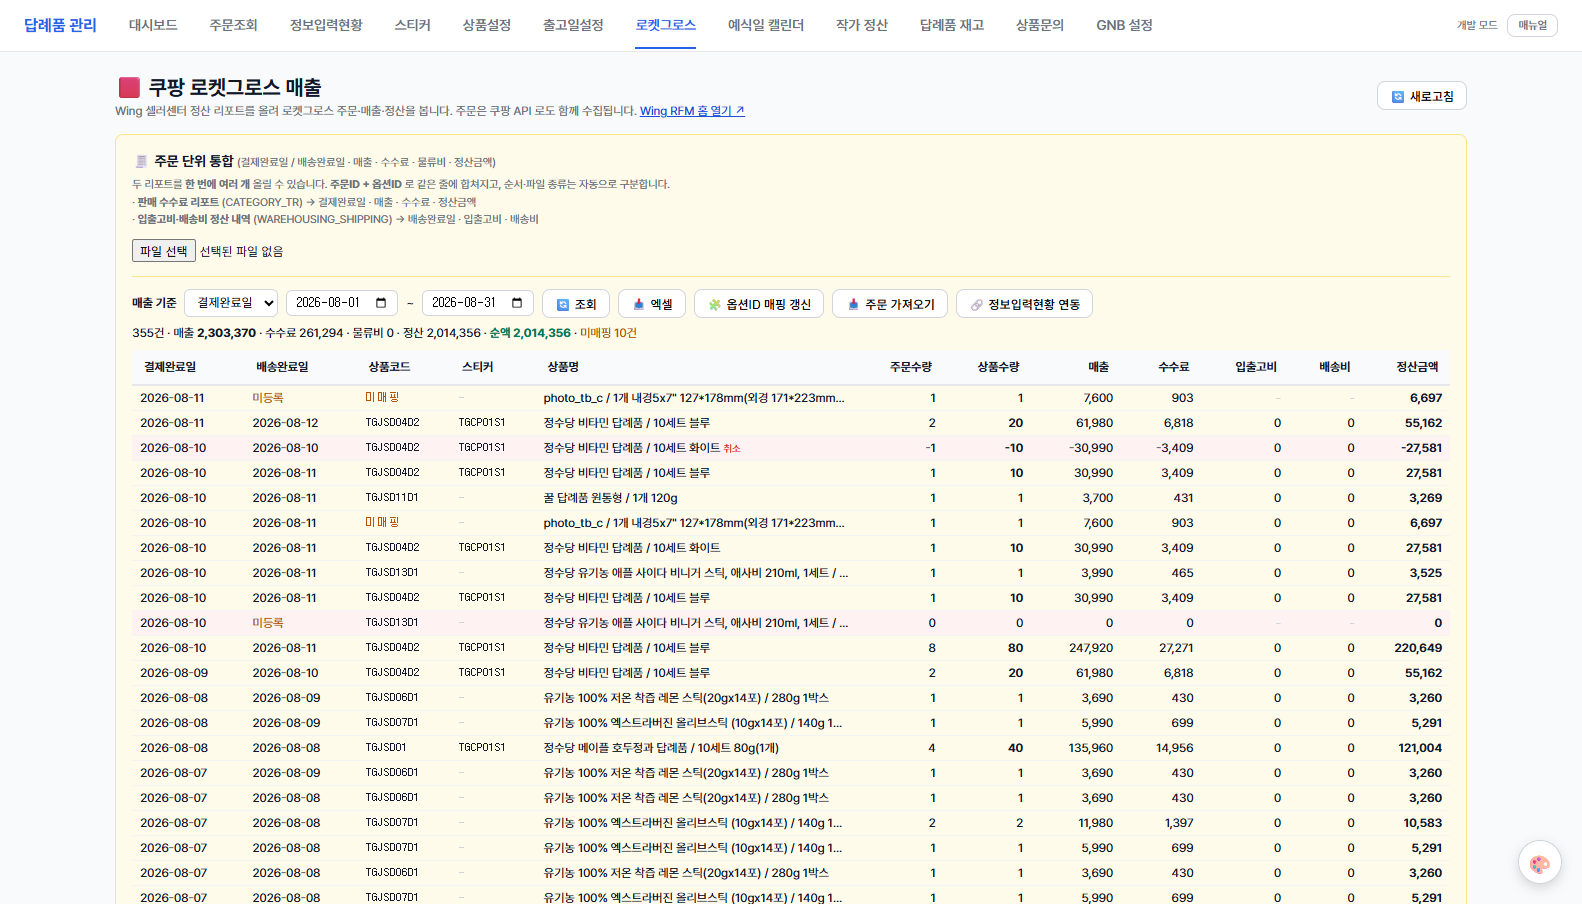
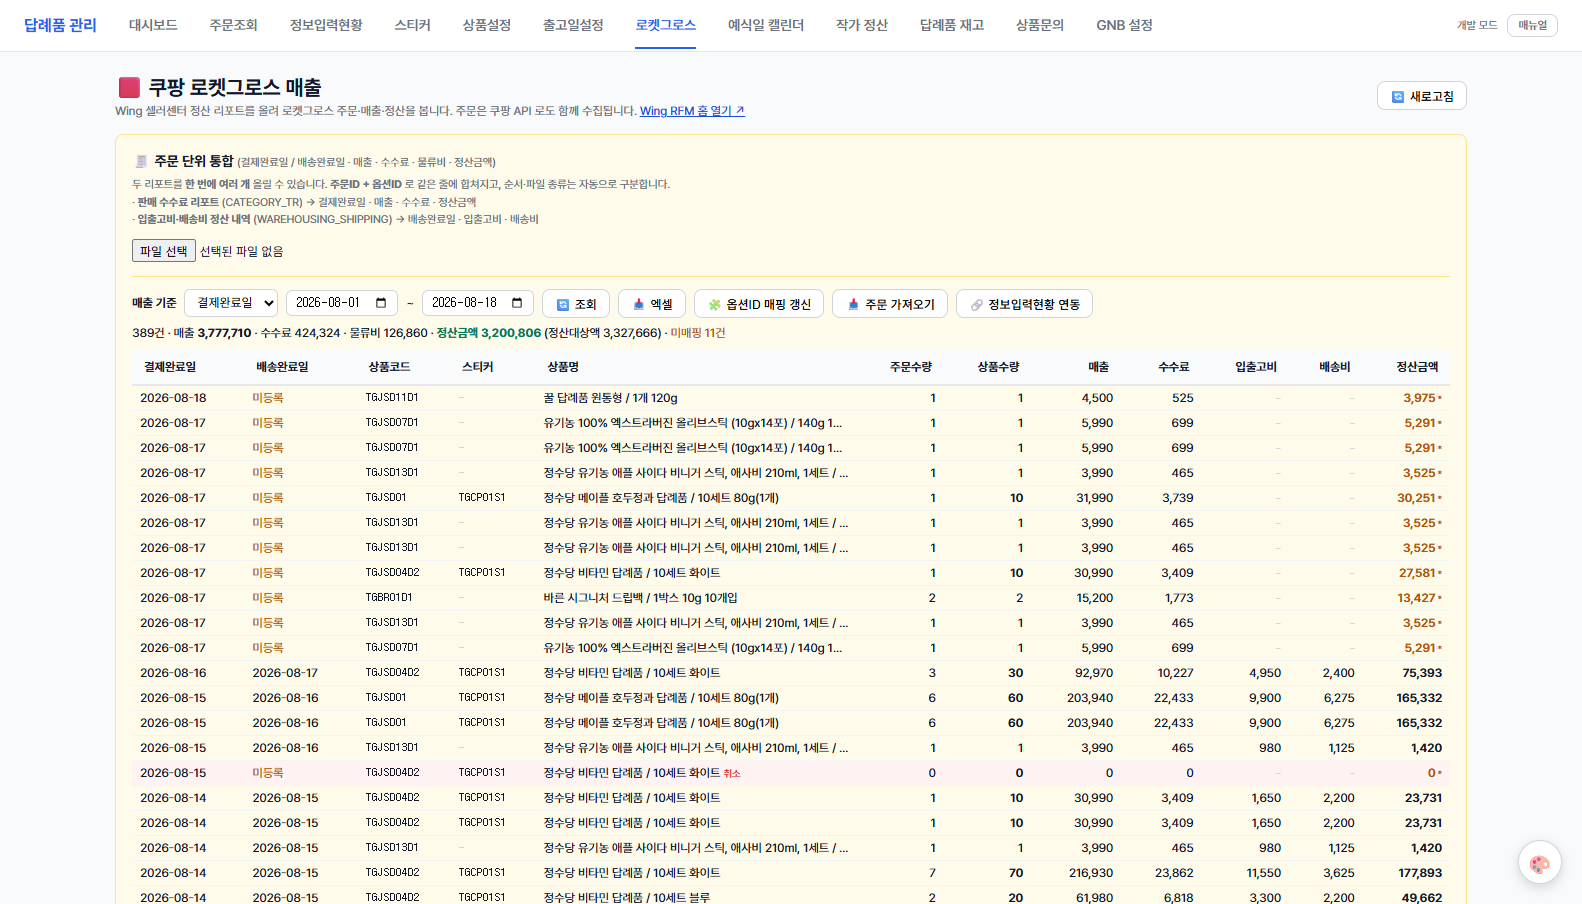
fix: 로켓그로스 정산금액에 입출고비·배송비 차감
정산금액 컬럼이 쿠팡 리포트의 '정산대상액'(매출−수수료까지만 반영)을 그대로
쓰고 있어, 바로 옆 입출고비·배송비 컬럼이 계산에서 빠져 있었다. 한 줄 안에서
산수가 맞지 않는 상태였다.

· 정산금액 = 매출 − 수수료 − 입출고비 − 배송비 로 변경 (행·요약·엑셀 일관)
· 원본 정산대상액은 버리지 않는다 — 요약줄 괄호와 셀 툴팁, 엑셀 별도 컬럼으로
  남겨 리포트와 대조할 수 있게 했다
· 물류비 리포트(파일2) 미등록 행은 뺄 값이 없어 정산대상액 그대로다. 확정값처럼
  보이지 않게 주황색 + '*' 로 구분하고 툴팁으로 사유를 적었다 (실측 29건)

검증: 2026-08-01~18 실데이터 389건에서 행 합계 3,200,806 = 요약 정산금액 일치,
샘플행 82,743 − 4,950 − 2,400 = 75,393 확인.

diff --git a/pricing-prototype/daeryepum/index.html b/pricing-prototype/daeryepum/index.html
@@ -18114,7 +18114,9 @@ function renderRgLines() {
     inout: a.inout + n(r.inout_fee), ship: a.ship + n(r.shipping_fee),
     settle: a.settle + n(r.settlement_amount),
   }), { sales: 0, fee: 0, inout: 0, ship: 0, settle: 0 });
-  // 순액 = 정산금액 − 물류비. 재무가 실제로 남는 돈을 보는 값.
+  // 정산금액 = 매출 − 수수료 − 입출고비 − 배송비.
+  //   쿠팡 리포트의 '정산대상액'(settlement_amount)은 매출−수수료까지만 반영된 값이라
+  //   그대로 쓰면 옆 컬럼의 물류비가 계산에서 빠진다 (2026-08-18 운영 지적).
   const net = t.settle - t.inout - t.ship;
   // 상품설정에 채널 코드가 안 들어간 건 — 이게 남아 있으면 상품코드·스티커가 빈다
   const unmapped = _rgLines.filter(r => !r.internal_product_code).length;
@@ -18124,18 +18126,34 @@ function renderRgLines() {
   if ($sum) {
     $sum.innerHTML = `${fmtNum(_rgLines.length)}건 · 매출 <b>${fmtNum(Math.round(t.sales))}</b>`
       + ` · 수수료 ${fmtNum(Math.round(t.fee))} · 물류비 ${fmtNum(Math.round(t.inout + t.ship))}`
-      + ` · 정산 ${fmtNum(Math.round(t.settle))} · <b style="color:#047857">순액 ${fmtNum(Math.round(net))}</b>`
+      + ` · <b style="color:#047857">정산금액 ${fmtNum(Math.round(net))}</b>`
+      + ` <span style="color:var(--gray-400)" title="쿠팡 리포트의 정산대상액 — 매출−수수료까지만 반영된 원본 값입니다. 물류비를 뺀 값이 위의 정산금액입니다.">(정산대상액 ${fmtNum(Math.round(t.settle))})</span>`
       + (unmapped ? ` · <span style="color:#b45309">미매핑 ${fmtNum(unmapped)}건</span>` : '')
       + (sellerCnt ? ` · <span style="color:var(--gray-500)" title="판매자배송 주문 — 쿠팡 채널에서 집계되므로 로켓그로스 매출에서는 빠집니다">판매자배송 ${fmtNum(sellerCnt)}건</span>` : '')
       + (unknownCnt ? ` · <span style="color:#b45309" title="쿠팡 주문 정보가 없어 판매 방식을 확정하지 못했습니다. 그 기간까지 '주문 가져오기' 를 돌리면 채워집니다. 지금은 로켓그로스 매출에 포함됩니다">방식 미확인 ${fmtNum(unknownCnt)}건</span>` : '');
   }
   const cell = (v, style = '') => `<td style="padding:5px 8px;border-bottom:1px solid var(--gray-100);text-align:right;${style}">${v === null || v === undefined ? '<span style="color:var(--gray-300)">-</span>' : fmtNum(Math.round(Number(v)))}</td>`;
+  // 정산금액 = 정산대상액 − 물류비. 물류비 리포트(파일2)가 아직 안 올라온 행은
+  //   차감할 값이 없어 정산대상액 그대로다 — 확정값처럼 보이지 않게 표시로 구분한다.
+  const settleCell = (r) => {
+    if (r.settlement_amount === null || r.settlement_amount === undefined) {
+      return `<td style="padding:5px 8px;border-bottom:1px solid var(--gray-100);text-align:right"><span style="color:var(--gray-300)">-</span></td>`;
+    }
+    const raw = n(r.settlement_amount);
+    const logi = n(r.inout_fee) + n(r.shipping_fee);
+    const pending = !r.delivered_date;   // 파일2 미등록 = 물류비 아직 모름
+    const tip = `정산대상액 ${fmtNum(Math.round(raw))} − 입출고비 ${fmtNum(Math.round(n(r.inout_fee)))}`
+      + ` − 배송비 ${fmtNum(Math.round(n(r.shipping_fee)))}`
+      + (pending ? ' · 물류비 리포트 미등록 — 올리면 차감됩니다' : '');
+    return `<td style="padding:5px 8px;border-bottom:1px solid var(--gray-100);text-align:right;font-weight:600${pending ? ';color:#b45309' : ''}" title="${esc(tip)}">`
+      + `${fmtNum(Math.round(raw - logi))}${pending ? '<span style="font-size:9px;margin-left:2px">*</span>' : ''}</td>`;
+  };
   $w.innerHTML = `<table class="data-table" style="font-size:12px;min-width:1220px">
     <thead><tr>
       <th>결제완료일</th><th>배송완료일</th><th>상품코드</th><th>스티커</th><th>상품명</th>
       <th style="text-align:right" title="쿠팡 리포트의 판매수량 — 주문 단위">주문수량</th><th style="text-align:right" title="주문수량 × 채널 판매단위 — 실제 출고 개수">상품수량</th><th style="text-align:right">매출</th>
       <th style="text-align:right">수수료</th><th style="text-align:right">입출고비</th>
-      <th style="text-align:right">배송비</th><th style="text-align:right">정산금액</th>
+      <th style="text-align:right">배송비</th><th style="text-align:right" title="매출 − 수수료 − 입출고비 − 배송비">정산금액</th>
     </tr></thead><tbody>` + _rgLines.map(r => {
       // 한쪽 리포트만 올라온 행은 반대쪽 날짜가 비어 있다 — 어느 파일이 빠졌는지 바로 보이게 한다
       const miss = 'color:#b45309';
@@ -18152,7 +18170,7 @@ function renderRgLines() {
           r.fulfillment === 'seller'
             ? '<span style="font-size:10px;color:var(--gray-500);border:1px solid var(--gray-300);border-radius:3px;padding:0 3px;margin-right:4px" title="판매자배송 — 로켓그로스 매출에서 제외">판매자</span>'
             : ''}${esc(r.product_name || '-')}${r.is_cancel ? ' <span style="color:#dc2626;font-size:10px">취소</span>' : ''}</td>
-        ${cell(r.sales_qty)}${cell(r.item_qty ?? r.sales_qty, (r.sales_unit > 1 ? 'font-weight:600' : 'color:var(--gray-400)'))}${cell(r.sales_amount)}${cell(r.commission)}${cell(r.inout_fee)}${cell(r.shipping_fee)}${cell(r.settlement_amount, 'font-weight:600')}
+        ${cell(r.sales_qty)}${cell(r.item_qty ?? r.sales_qty, (r.sales_unit > 1 ? 'font-weight:600' : 'color:var(--gray-400)'))}${cell(r.sales_amount)}${cell(r.commission)}${cell(r.inout_fee)}${cell(r.shipping_fee)}${settleCell(r)}
       </tr>`;
     }).join('') + '</tbody></table>';
 }
@@ -18541,13 +18559,16 @@ async function syncRgWorkflow() {
 
 function downloadRgLinesXlsx() {
   if (!_rgLines.length) { alert('내려받을 데이터가 없습니다.'); return; }
-  const header = ['결제완료일', '배송완료일', '상품코드', '스티커코드', '등록상품ID', '옵션ID', '주문ID', '상품명', '주문수량', '판매단위', '상품수량', '매출', '수수료', '입출고비', '배송비', '정산금액', '취소'];
+  const header = ['결제완료일', '배송완료일', '상품코드', '스티커코드', '등록상품ID', '옵션ID', '주문ID', '상품명', '주문수량', '판매단위', '상품수량', '매출', '수수료', '입출고비', '배송비', '정산대상액', '정산금액', '취소'];
   const body = _rgLines.map(r => [
     r.paid_date || '', r.delivered_date || '',
     r.internal_product_code || '', r.sticker_code || '',
     r.seller_product_id || '', r.vendor_item_id, r.order_id, r.product_name || '',
     Number(r.sales_qty) || 0, Number(r.sales_unit) || 1, Number(r.item_qty) || Number(r.sales_qty) || 0, Number(r.sales_amount) || 0, Number(r.commission) || 0,
-    Number(r.inout_fee) || 0, Number(r.shipping_fee) || 0, Number(r.settlement_amount) || 0,
+    Number(r.inout_fee) || 0, Number(r.shipping_fee) || 0,
+    // 정산대상액(쿠팡 원본) 과 물류비까지 뺀 정산금액을 함께 — 대조가 가능해야 한다
+    Number(r.settlement_amount) || 0,
+    (Number(r.settlement_amount) || 0) - (Number(r.inout_fee) || 0) - (Number(r.shipping_fee) || 0),
     r.is_cancel ? 'Y' : '',
   ]);
   const basis = document.getElementById('rgl-basis')?.value === 'delivered' ? '배송완료일' : '결제완료일';

diff --git a/pricing-prototype/daeryepum/manual.html b/pricing-prototype/daeryepum/manual.html
@@ -413,7 +413,7 @@ code{background:var(--gray-100);padding:2px 6px;border-radius:4px;font-size:12px
 <h4>9-2. 정산 리포트 업로드</h4>
 <div class="step">
   Wing 셀러센터에서 두 파일을 받아 <b>한 번에 여러 개</b> 올릴 수 있습니다. 파일 종류는 자동으로 구분됩니다.<br>
-  · <b>파일1 판매 수수료 리포트</b> (CATEGORY_TR) → 결제완료일 · 매출 · 수수료 · 정산금액<br>
+  · <b>파일1 판매 수수료 리포트</b> (CATEGORY_TR) → 결제완료일 · 매출 · 수수료 · 정산대상액<br>
   · <b>파일2 입출고비·배송비 정산 내역</b> (WAREHOUSING_SHIPPING) → 배송완료일 · 입출고비 · 배송비
 </div>
 <ul>
@@ -426,6 +426,8 @@ code{background:var(--gray-100);padding:2px 6px;border-radius:4px;font-size:12px
 <h4>9-3. 목록 보는 법</h4>
 <ul>
   <li><b>매출 기준</b> — 결제완료일 / 배송완료일 중 어느 날짜를 축으로 볼지 고릅니다. 보통 하루 차이가 납니다.</li>
+  <li><b>정산금액 = 매출 − 수수료 − 입출고비 − 배송비</b>. 쿠팡 리포트가 주는 <b>정산대상액</b>은 매출−수수료까지만 반영된 값이라, 물류비까지 뺀 값을 정산금액으로 보여줍니다. 요약줄 괄호 안의 정산대상액은 리포트 원본과 대조할 때 쓰세요.</li>
+  <li>물류비 리포트(파일2)가 아직 안 올라온 줄은 뺄 물류비가 없어 정산대상액 그대로이며, <b>주황색 숫자와 <code>*</code></b> 로 표시됩니다. 파일2를 올리면 자동으로 차감됩니다.</li>
   <li><b>주문수량 / 상품수량</b> — 주문수량은 쿠팡 리포트 그대로, 상품수량은 거기에 <b>채널 판매단위</b>(7장)를 곱한 실제 출고 개수입니다. 메이플호두정과처럼 쿠팡에서 10개 묶음으로 파는 상품은 주문 1 = 상품 10 입니다.</li>
   <li><b>배송완료일 '미등록'</b> — 파일2 가 아직 안 올라왔거나, 아직 배송 전이라는 뜻입니다.</li>
   <li><b>상품코드 '미매핑'</b> — 상품설정에 그 쿠팡 코드가 없다는 뜻입니다. 🧩 옵션ID 매핑 갱신을 먼저 눌러보세요.</li>
